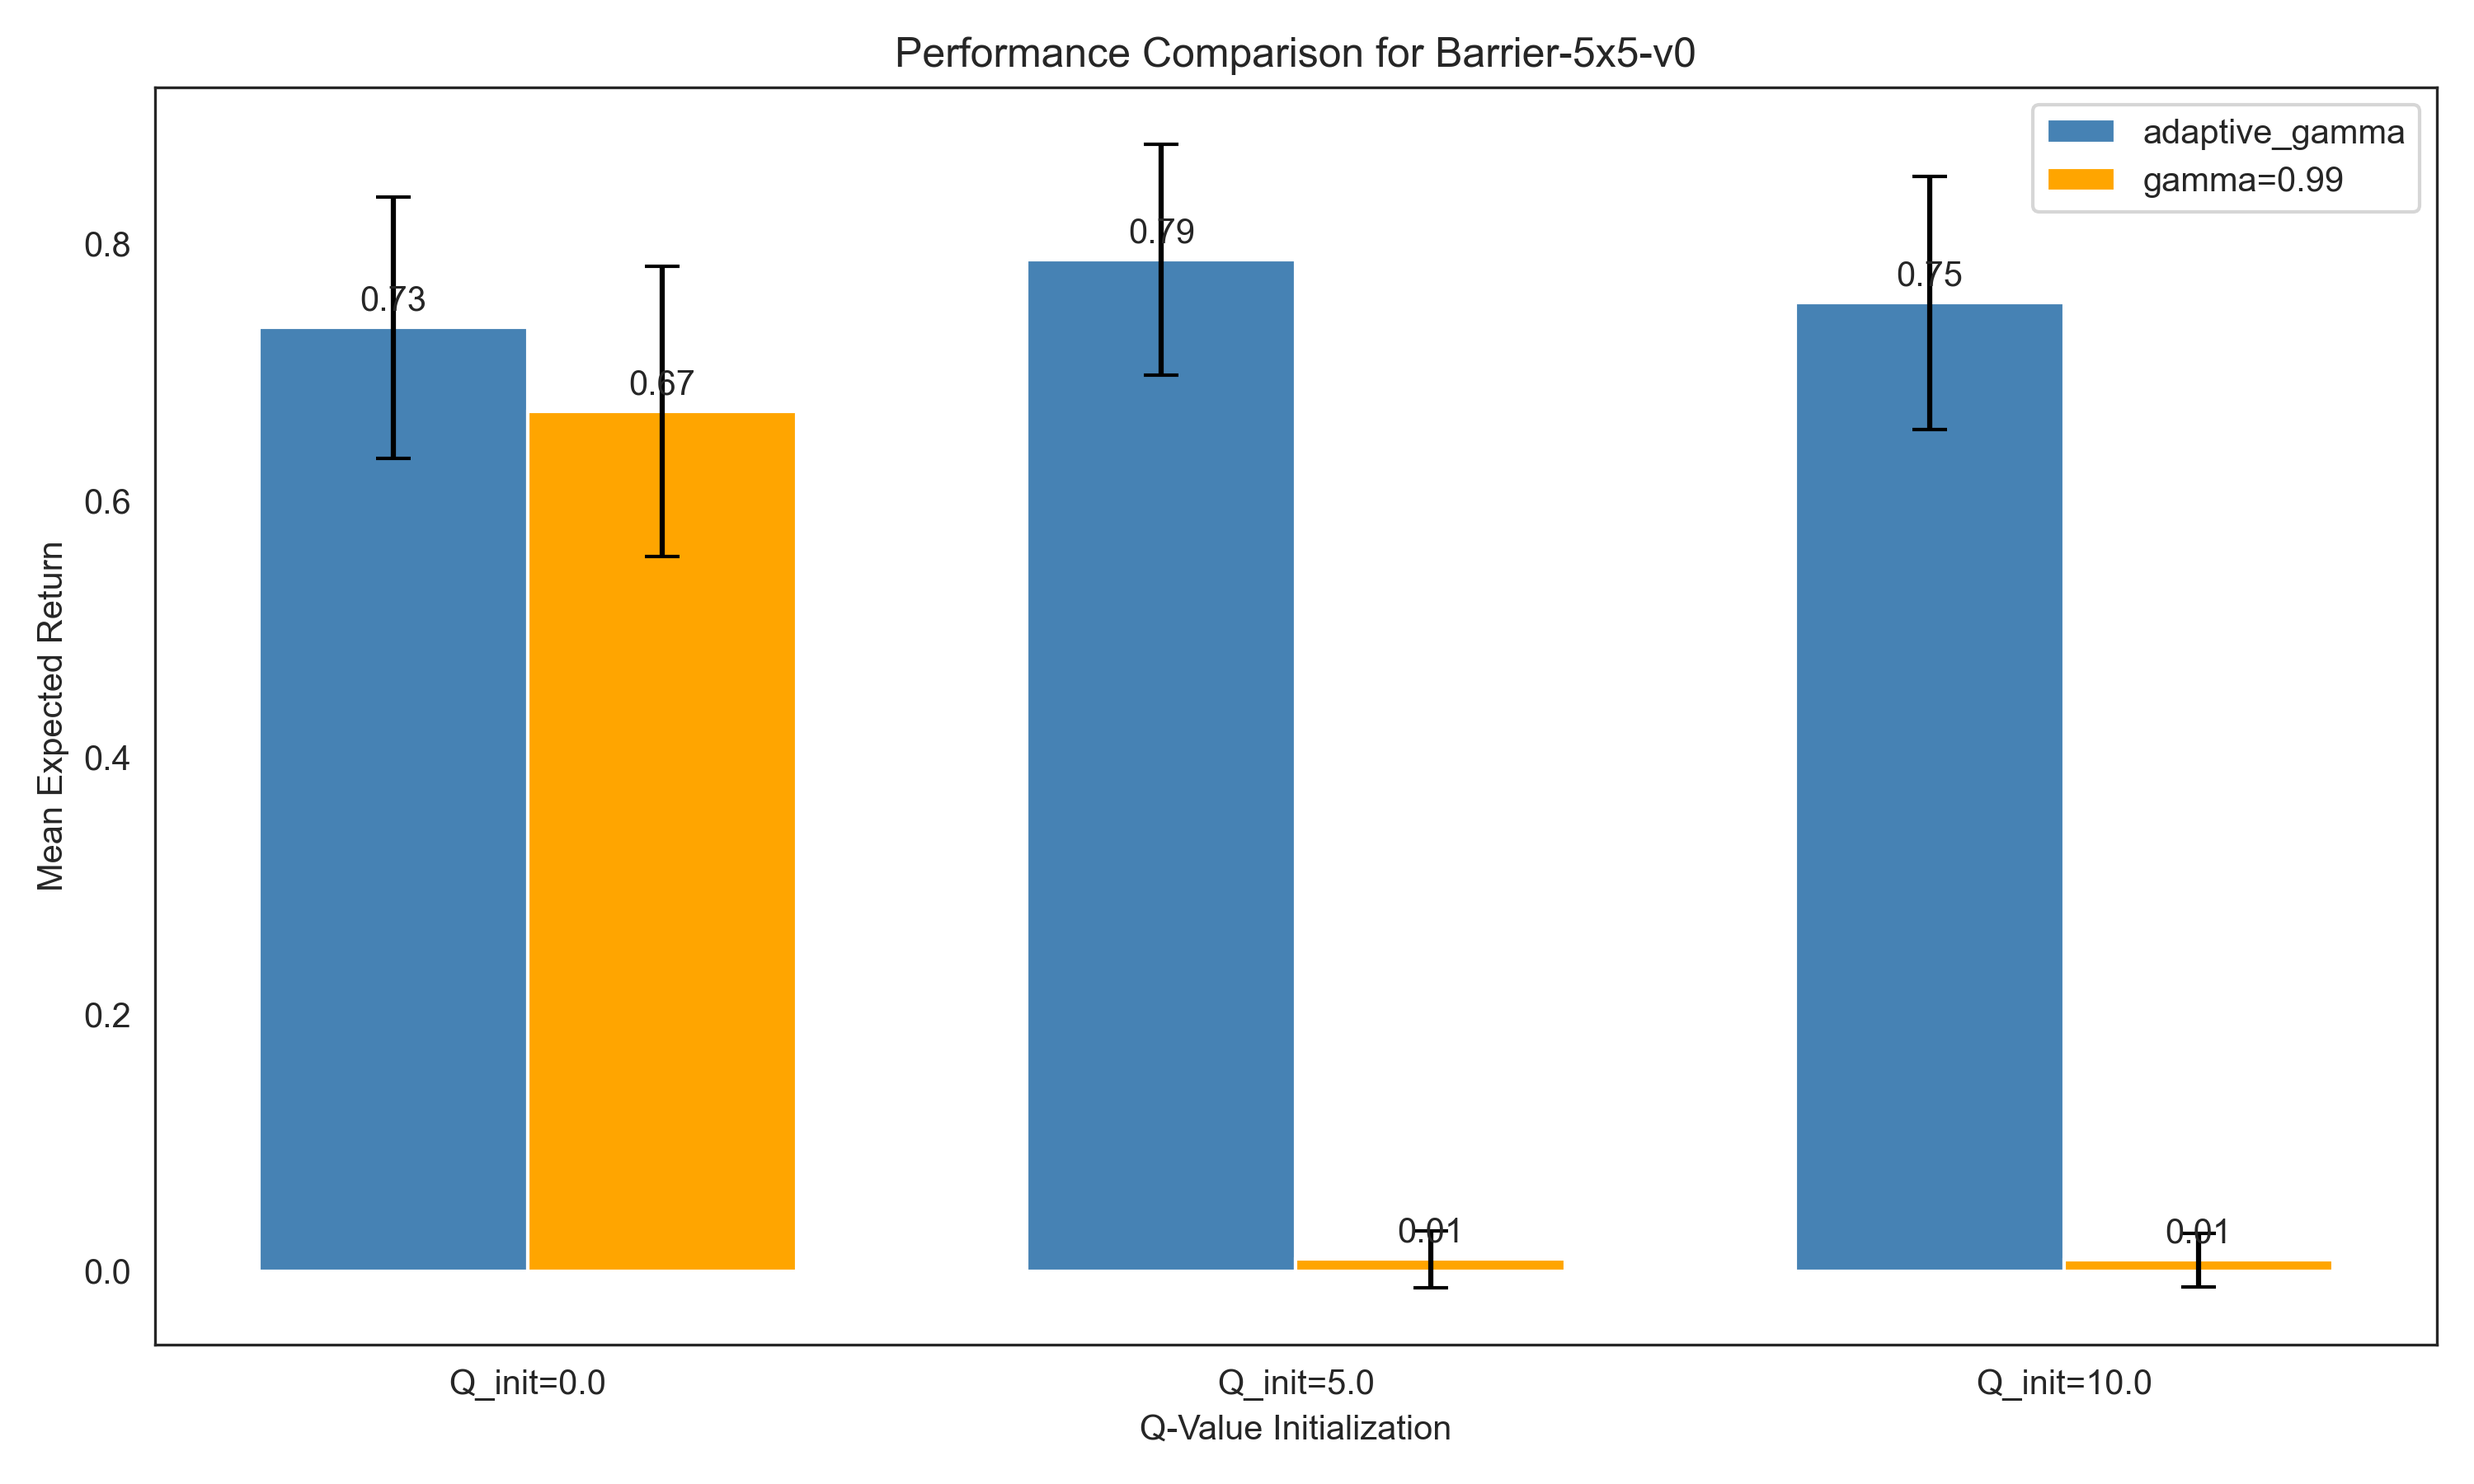
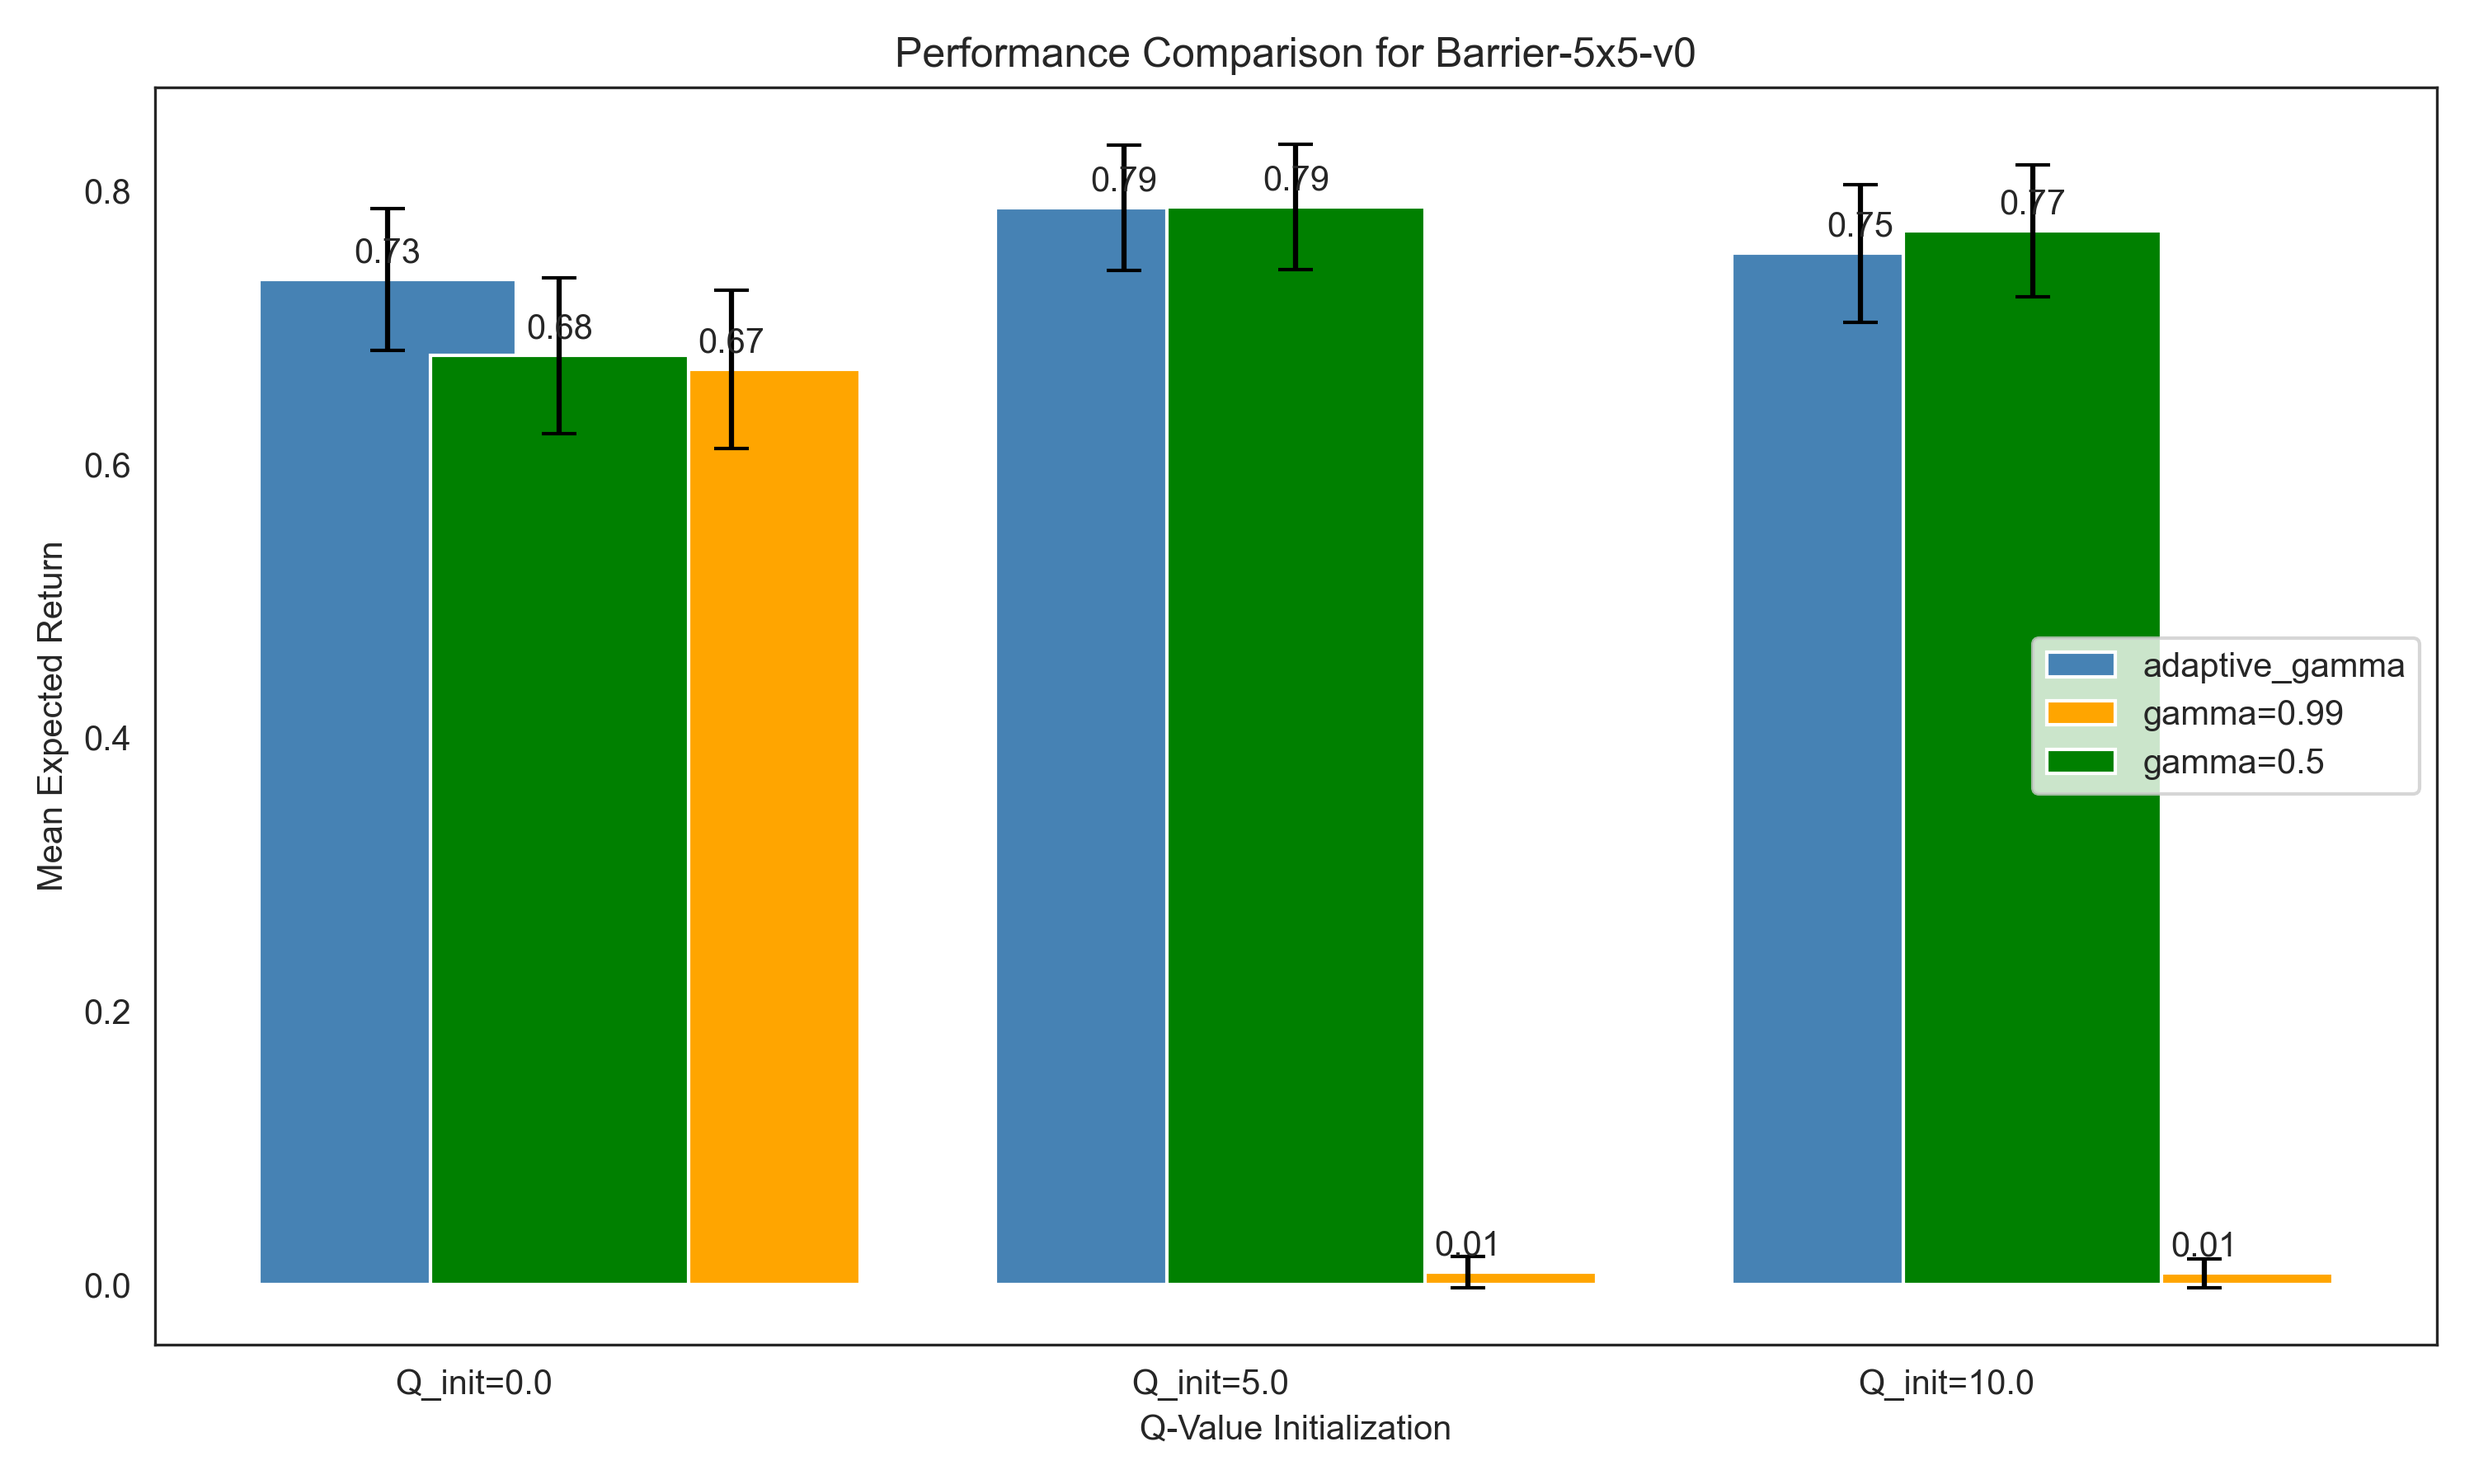
added data for gamma = 0.5

diff --git a/experiments/results/q-learning/bar-plot.py b/experiments/results/q-learning/bar-plot.py
@@ -23,6 +23,7 @@ def bar_plot_comparison(environments, q_inits, alphas, save_dir_na, save_dir_a, 
     sns.set_style(style="white")
     adaptive_label = "adaptive_gamma"
     fixed_label = "gamma=0.99"
+    fixed_label2 = "gamma=0.5"
 
     for alpha in alphas:
         plot_dir = os.path.join(base_plot_dir, f"alpha_{alpha}")
@@ -33,6 +34,8 @@ def bar_plot_comparison(environments, q_inits, alphas, save_dir_na, save_dir_a, 
             adaptive_cis = []
             fixed_means = []
             fixed_cis = []
+            fixed_means2 = []
+            fixed_cis2 = []
             labels = []
 
             for init in q_inits:
@@ -42,25 +45,33 @@ def bar_plot_comparison(environments, q_inits, alphas, save_dir_na, save_dir_a, 
                 fixed_path = os.path.join(
                     save_dir_na, f"{env_name}", f"gamma_0.99", f"Q_init_{init}", f"alpha_{alpha}", "0.99_results.pkl"
                 )
+                fixed_path2 = os.path.join(
+                    save_dir_na, f"{env_name}", f"gamma_0.5", f"Q_init_{init}", f"alpha_{alpha}", "0.5_results.pkl"
+                )
 
                 adaptive_results = load_results(adaptive_path)
                 fixed_results = load_results(fixed_path)
+                fixed_results2 = load_results(fixed_path2)
 
                 adaptive_mean, adaptive_ci = extract_performance(adaptive_results)
                 fixed_mean, fixed_ci = extract_performance(fixed_results)
+                fixed_mean2, fixed_ci2 = extract_performance(fixed_results2)
 
                 adaptive_means.append(adaptive_mean)
                 adaptive_cis.append(adaptive_ci)
                 fixed_means.append(fixed_mean)
                 fixed_cis.append(fixed_ci)
+                fixed_means2.append(fixed_mean2)
+                fixed_cis2.append(fixed_ci2)
                 labels.append(f"Q_init={init}")
 
             x = np.arange(len(q_inits))
             width = 0.35
 
             fig, ax = plt.subplots(figsize=(10, 6))
-            rects1 = ax.bar(x - width / 2, adaptive_means, width, label=adaptive_label, color="steelblue", yerr=adaptive_cis, capsize=5)
-            rects2 = ax.bar(x + width / 2, fixed_means, width, label=fixed_label, color="orange", yerr=fixed_cis, capsize=5)
+            rects1 = ax.bar(x - width / 3, adaptive_means, width, label=adaptive_label, color="steelblue", yerr=adaptive_cis, capsize=5)
+            rects2 = ax.bar(x + width, fixed_means, width, label=fixed_label, color="orange", yerr=fixed_cis, capsize=5)
+            rects3 = ax.bar(x + width / 3, fixed_means2, width, label=fixed_label2, color="green", yerr=fixed_cis2, capsize=5)
 
             ax.set_xlabel("Q-Value Initialization")
             ax.set_ylabel("Mean Expected Return")
@@ -84,6 +95,8 @@ def bar_plot_comparison(environments, q_inits, alphas, save_dir_na, save_dir_a, 
 
             annotate_bars(rects1)
             annotate_bars(rects2)
+            annotate_bars(rects3)
+
 
             output_path = os.path.join(plot_dir, f"{env_name}.png")
             plt.tight_layout()
